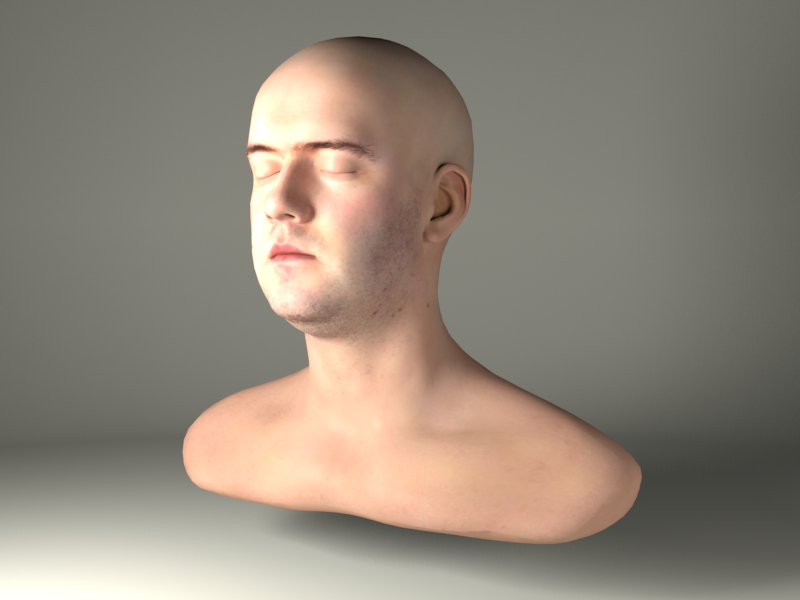
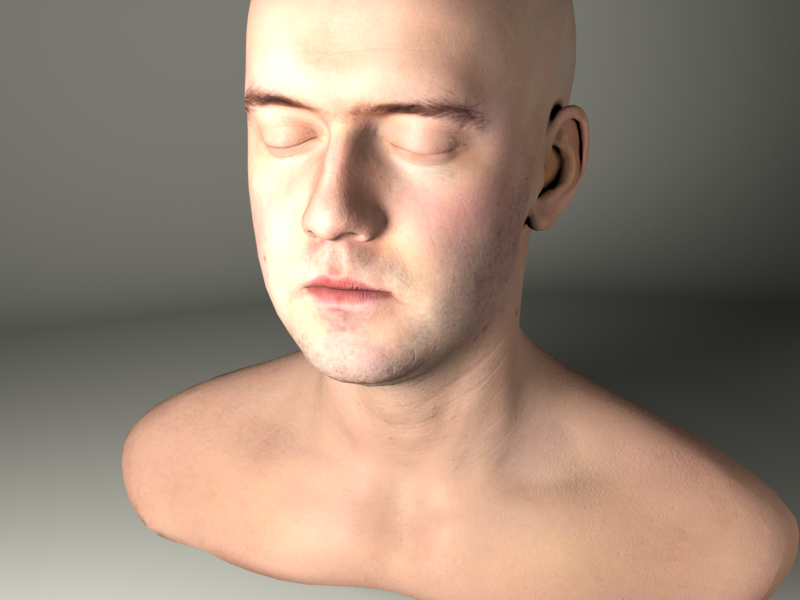
Added quick Modifiers exporter for bump maps.

diff --git a/build/threeflow.js b/build/threeflow.js
@@ -60,6 +60,7 @@
       this.gi = this.exporter.gi;
       this.cameras = this.exporter.cameras;
       this.lights = this.exporter.lights;
+      this.modifiers = this.exporter.modifiers;
       this.materials = this.exporter.materials;
       this.geometry = this.exporter.geometry;
       this.bufferGeometry = this.exporter.bufferGeometry;
@@ -530,6 +531,7 @@
       this.gi = this.addBlockExporter(new GiExporter(this));
       this.camera = this.addBlockExporter(new CameraExporter(this));
       this.lights = this.addBlockExporter(new LightsExporter(this));
+      this.modifiers = this.addBlockExporter(new ModifiersExporter(this));
       this.materials = this.addBlockExporter(new MaterialsExporter(this));
       this.geometry = this.addBlockExporter(new GeometryExporter(this));
       this.bufferGeometry = this.addBlockExporter(new BufferGeometryExporter(this));
@@ -1114,6 +1116,9 @@
           result += '  geometry ' + mesh.geometry.uuid + '\n';
           result += '  transform col' + this.exportTransform(mesh) + '\n';
           result += '  shader ' + mesh.material.uuid + '\n';
+          if (mesh.material.bumpMap) {
+            result += '  modifier ' + mesh.material.uuid + '-MOD\n';
+          }
         }
         result += '}\n\n';
       }
@@ -1134,11 +1139,11 @@
 
     ModifiersExporter.prototype.addToIndex = function(object3d) {
       var material;
-      if (!object3d instanceof THREE.Mesh) {
+      if (!(object3d instanceof THREE.Mesh)) {
         return;
       }
       material = object3d.material;
-      if (!this.modifiersIndex[material.uuid] && material.bumpMap) {
+      if (!this.modifiersIndex[material.uuid] && material.bumpMap instanceof THREE.Texture) {
         this.modifiersIndex[material.uuid] = material;
       }
       return null;
@@ -1149,8 +1154,22 @@
     };
 
     ModifiersExporter.prototype.exportBlock = function() {
-      var result;
+      var material, result, texturePath, uuid;
       result = '';
+      for (uuid in this.modifiersIndex) {
+        material = this.modifiersIndex[uuid];
+        texturePath = this.exporter.textureLinkages[material.bumpMap.uuid];
+        if (!texturePath) {
+          console.log("[Threeflow] Found bumpMap texture on material but no texture linkage. ( Use linkTexturePath() )");
+        } else {
+          result += 'modifier {\n';
+          result += '  name ' + material.uuid + '-MOD\n';
+          result += '  type bump\n';
+          result += '  texture ' + texturePath + '\n';
+          result += '  scale -0.01\n';
+          result += '}\n';
+        }
+      }
       return result;
     };
 

diff --git a/templates/default/deploy/js/threeflow.js b/templates/default/deploy/js/threeflow.js
@@ -60,6 +60,7 @@
       this.gi = this.exporter.gi;
       this.cameras = this.exporter.cameras;
       this.lights = this.exporter.lights;
+      this.modifiers = this.exporter.modifiers;
       this.materials = this.exporter.materials;
       this.geometry = this.exporter.geometry;
       this.bufferGeometry = this.exporter.bufferGeometry;
@@ -530,6 +531,7 @@
       this.gi = this.addBlockExporter(new GiExporter(this));
       this.camera = this.addBlockExporter(new CameraExporter(this));
       this.lights = this.addBlockExporter(new LightsExporter(this));
+      this.modifiers = this.addBlockExporter(new ModifiersExporter(this));
       this.materials = this.addBlockExporter(new MaterialsExporter(this));
       this.geometry = this.addBlockExporter(new GeometryExporter(this));
       this.bufferGeometry = this.addBlockExporter(new BufferGeometryExporter(this));
@@ -1114,6 +1116,9 @@
           result += '  geometry ' + mesh.geometry.uuid + '\n';
           result += '  transform col' + this.exportTransform(mesh) + '\n';
           result += '  shader ' + mesh.material.uuid + '\n';
+          if (mesh.material.bumpMap) {
+            result += '  modifier ' + mesh.material.uuid + '-MOD\n';
+          }
         }
         result += '}\n\n';
       }
@@ -1134,11 +1139,11 @@
 
     ModifiersExporter.prototype.addToIndex = function(object3d) {
       var material;
-      if (!object3d instanceof THREE.Mesh) {
+      if (!(object3d instanceof THREE.Mesh)) {
         return;
       }
       material = object3d.material;
-      if (!this.modifiersIndex[material.uuid] && material.bumpMap) {
+      if (!this.modifiersIndex[material.uuid] && material.bumpMap instanceof THREE.Texture) {
         this.modifiersIndex[material.uuid] = material;
       }
       return null;
@@ -1149,8 +1154,22 @@
     };
 
     ModifiersExporter.prototype.exportBlock = function() {
-      var result;
+      var material, result, texturePath, uuid;
       result = '';
+      for (uuid in this.modifiersIndex) {
+        material = this.modifiersIndex[uuid];
+        texturePath = this.exporter.textureLinkages[material.bumpMap.uuid];
+        if (!texturePath) {
+          console.log("[Threeflow] Found bumpMap texture on material but no texture linkage. ( Use linkTexturePath() )");
+        } else {
+          result += 'modifier {\n';
+          result += '  name ' + material.uuid + '-MOD\n';
+          result += '  type bump\n';
+          result += '  texture ' + texturePath + '\n';
+          result += '  scale -0.01\n';
+          result += '}\n';
+        }
+      }
       return result;
     };
 

diff --git a/templates/default/deploy/lee_perry_smith.html b/templates/default/deploy/lee_perry_smith.html
@@ -65,6 +65,7 @@
     colorMap = THREE.ImageUtils.loadTexture( "models/Map-COL.jpg" );
 
     threeflow.linkTexturePath( colorMap, "../models/Map-COL.jpg" );
+    threeflow.linkTexturePath( bumpMap, "../models/Infinite-Level_02_Disp_NoSmoothUV-4096.jpg" );
 
     var loader = new THREE.JSONLoader();
 
